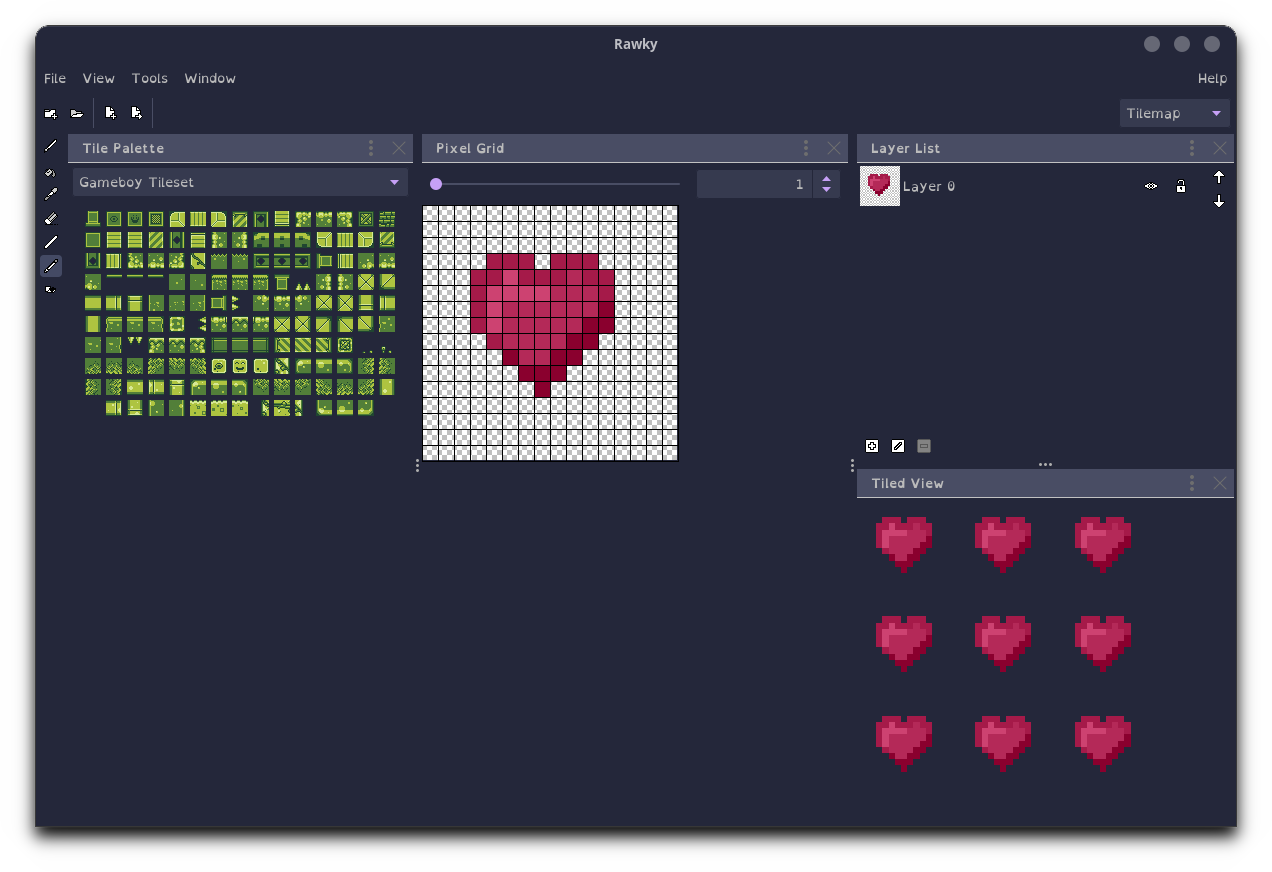
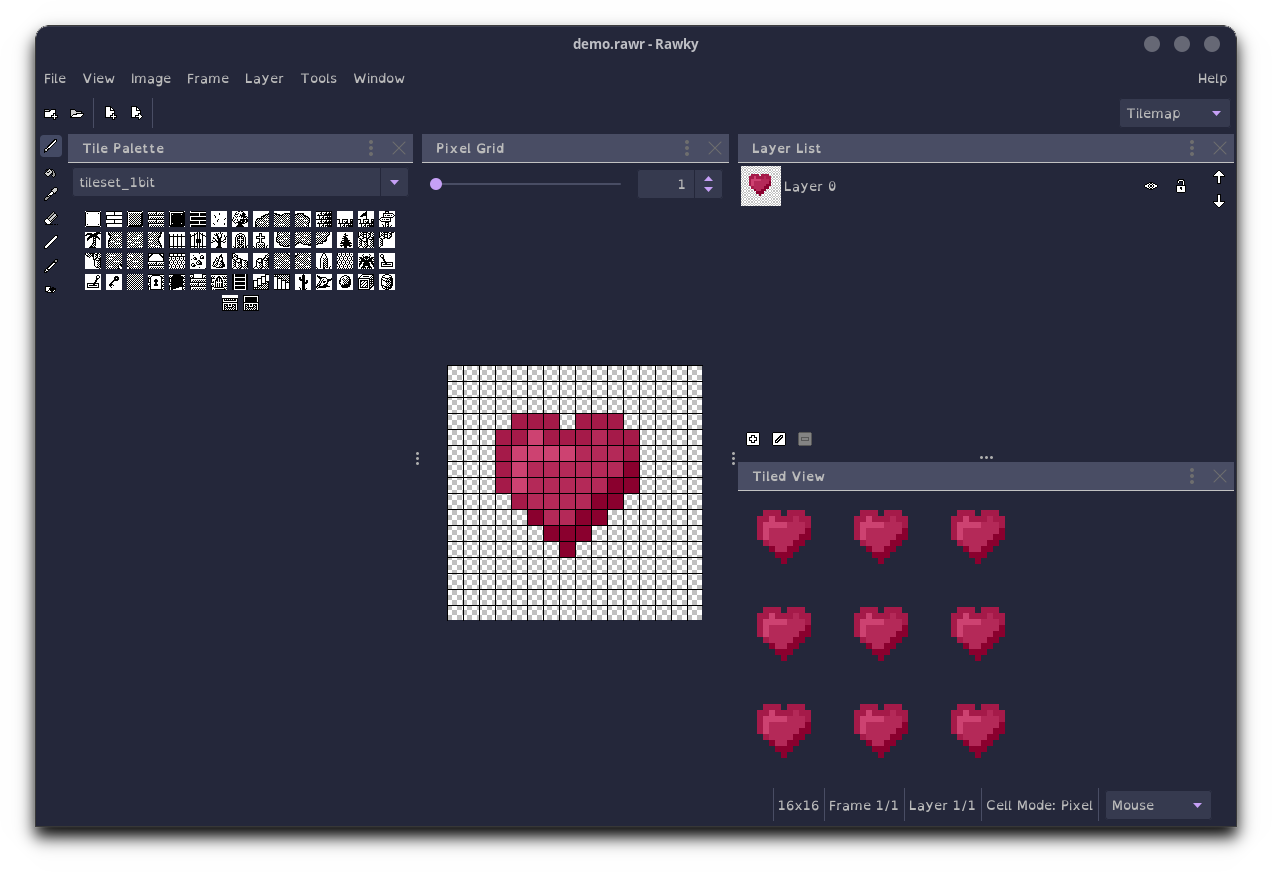
Centred the pixel grid

diff --git a/pixelgrid/src/main/kotlin/com/deflatedpickle/rawky/pixelgrid/PixelGridPanel.kt b/pixelgrid/src/main/kotlin/com/deflatedpickle/rawky/pixelgrid/PixelGridPanel.kt
@@ -6,6 +6,7 @@ import com.deflatedpickle.haruhi.api.plugin.Plugin
 import com.deflatedpickle.haruhi.api.redraw.RedrawActive
 import com.deflatedpickle.haruhi.api.registry.Registry
 import com.deflatedpickle.haruhi.component.PluginPanel
+import com.deflatedpickle.haruhi.event.EventCreateDocument
 import com.deflatedpickle.haruhi.event.EventImportDocument
 import com.deflatedpickle.haruhi.event.EventOpenDocument
 import com.deflatedpickle.haruhi.util.RegistryUtil
@@ -20,10 +21,13 @@ import com.deflatedpickle.rawky.event.EventUpdateCell
 import com.deflatedpickle.rawky.pixelgrid.api.LayerCategory
 import com.deflatedpickle.rawky.pixelgrid.api.PaintLayer
 import com.deflatedpickle.rawky.util.DnDUtil
+import com.deflatedpickle.undulation.constraints.StickCenter
 import java.awt.BorderLayout
 import java.awt.Component
+import java.awt.Dimension
 import java.awt.Graphics
 import java.awt.Graphics2D
+import java.awt.GridBagLayout
 import java.awt.RenderingHints
 import java.awt.datatransfer.DataFlavor
 import java.awt.dnd.DnDConstants
@@ -31,10 +35,13 @@ import java.awt.dnd.DropTarget
 import java.awt.dnd.DropTargetAdapter
 import java.awt.dnd.DropTargetDragEvent
 import java.awt.dnd.DropTargetDropEvent
+import java.awt.event.MouseAdapter
+import java.awt.event.MouseEvent
 import java.awt.image.BufferedImage
 import java.io.File
 import java.io.IOException
 import javax.swing.JPanel
+import javax.swing.JScrollPane
 import javax.swing.JToolBar
 import kotlin.reflect.KClass
 import kotlin.reflect.full.declaredMemberProperties
@@ -74,14 +81,29 @@ object PixelGridPanel : PluginPanel() {
             }
         }
     }
+
     val panel = object : JPanel() {
+        override fun getPreferredSize(): Dimension {
+            RawkyPlugin.document?.let { doc ->
+                return Dimension(
+                    doc.columns * Grid.pixel,
+                    doc.rows * Grid.pixel
+                )
+            }
+
+            return Dimension(0, 0)
+        }
+
         override fun paintComponent(g: Graphics) {
             super.paintComponent(g)
 
             RawkyPlugin.document?.let { doc ->
                 doc.children.getOrNull(doc.selectedIndex)?.let { frame ->
                     val g2d = g as Graphics2D
-                    g2d.setRenderingHint(RenderingHints.KEY_INTERPOLATION, RenderingHints.VALUE_INTERPOLATION_NEAREST_NEIGHBOR)
+                    g2d.setRenderingHint(
+                        RenderingHints.KEY_INTERPOLATION,
+                        RenderingHints.VALUE_INTERPOLATION_NEAREST_NEIGHBOR
+                    )
 
                     val bufferedImage =
                         BufferedImage(
@@ -92,7 +114,10 @@ object PixelGridPanel : PluginPanel() {
 
                     for (v in PaintLayer.registry.getAll().values.sortedBy { it.layer }) {
                         val temp = bufferedImage.createGraphics()
-                        temp.setRenderingHint(RenderingHints.KEY_INTERPOLATION, RenderingHints.VALUE_INTERPOLATION_NEAREST_NEIGHBOR)
+                        temp.setRenderingHint(
+                            RenderingHints.KEY_INTERPOLATION,
+                            RenderingHints.VALUE_INTERPOLATION_NEAREST_NEIGHBOR
+                        )
 
                         for ((i, layer) in frame.children.withIndex()) {
                             if (v.layer == LayerCategory.GRID && !layer.visible) continue
@@ -108,6 +133,21 @@ object PixelGridPanel : PluginPanel() {
             }
         }
     }
+
+    private val wrapper = object : JPanel() {
+            init {
+                layout = GridBagLayout()
+                add(panel, StickCenter)
+
+                EventCreateDocument.addListener {
+                    doLayout()
+                }
+
+                EventOpenDocument.addListener {
+                    doLayout()
+                }
+            }
+        }
 
     private val dropTargetAdapter = object : DropTargetAdapter() {
         override fun dragOver(dtde: DropTargetDragEvent) {
@@ -126,8 +166,9 @@ object PixelGridPanel : PluginPanel() {
                     dtde.acceptDrop(DnDConstants.ACTION_COPY)
 
                     if (DnDUtil.isDnDAnImage(dtde.transferable)) {
-                        val transferable = (dtde.transferable.getTransferData(DataFlavor.javaFileListFlavor) as List<File>)
-                            .first()
+                        val transferable =
+                            (dtde.transferable.getTransferData(DataFlavor.javaFileListFlavor) as List<File>)
+                                .first()
 
                         if (RawkyPlugin.document == null) {
                             for ((_, v) in Opener.registry) {
@@ -165,7 +206,7 @@ object PixelGridPanel : PluginPanel() {
         DropTarget(panel, DnDConstants.ACTION_COPY, dropTargetAdapter, true)
 
         add(quickBar, BorderLayout.NORTH)
-        add(panel, BorderLayout.CENTER)
+        add(JScrollPane(wrapper), BorderLayout.CENTER)
 
         EventUpdateCell.addListener { repaint() }
     }

diff --git a/pixelgrid/mode/mouse/src/main/kotlin/com/deflatedpickle/rawky/pixelgrid/mode/mouse/MousePlugin.kt b/pixelgrid/mode/mouse/src/main/kotlin/com/deflatedpickle/rawky/pixelgrid/mode/mouse/MousePlugin.kt
@@ -9,6 +9,7 @@ import com.deflatedpickle.haruhi.api.plugin.PluginType
 import com.deflatedpickle.rawky.RawkyPlugin
 import com.deflatedpickle.rawky.pixelgrid.PixelGridPanel
 import com.deflatedpickle.rawky.api.ControlMode
+import com.deflatedpickle.rawky.event.EventUpdateCell
 import java.awt.MouseInfo
 import java.awt.event.MouseAdapter
 import java.awt.event.MouseEvent
@@ -62,6 +63,7 @@ object MousePlugin : ControlMode() {
                         for (cell in grid.children) {
                             if (cell.polygon.contains(point)) {
                                 PixelGridPanel.selectedCells.add(cell)
+                                EventUpdateCell.trigger(cell)
                                 break
                             }
                         }
@@ -85,15 +87,15 @@ object MousePlugin : ControlMode() {
 
     override fun apply() {
         adapter.apply {
-            PixelGridPanel.addMouseListener(this)
-            PixelGridPanel.addMouseMotionListener(this)
+            PixelGridPanel.panel.addMouseListener(this)
+            PixelGridPanel.panel.addMouseMotionListener(this)
         }
     }
 
     override fun remove() {
         adapter.apply {
-            PixelGridPanel.removeMouseListener(this)
-            PixelGridPanel.removeMouseMotionListener(this)
+            PixelGridPanel.panel.removeMouseListener(this)
+            PixelGridPanel.panel.removeMouseMotionListener(this)
         }
     }
 

diff --git a/colourshades/src/main/kotlin/com/deflatedpickle/rawky/colourshades/ColourShadesPanel.kt b/colourshades/src/main/kotlin/com/deflatedpickle/rawky/colourshades/ColourShadesPanel.kt
@@ -14,10 +14,11 @@ import com.deflatedpickle.undulation.widget.ColourButton
 import org.jdesktop.swingx.JXPanel
 import uk.co.timwise.wraplayout.WrapLayout
 import java.awt.GridBagLayout
+import javax.swing.JPanel
 import javax.swing.JScrollPane
 
 object ColourShadesPanel : PluginPanel() {
-    private val colourPanel = JXPanel().apply { layout = WrapLayout() }
+    private val colourPanel = JPanel().apply { layout = WrapLayout() }
 
     init {
         layout = GridBagLayout()

diff --git a/README.md b/README.md
@@ -40,6 +40,11 @@
 	<img src="https://sloc.xyz/github/DeflatedPickle/Rawky/?category=lines">
 </p>
 
+<p align="center">
+    <img alt="Bytes" src="https://img.shields.io/github/languages/code-size/DeflatedPickle/Rawky">
+    <img alt="Size" src="https://img.shields.io/github/repo-size/DeflatedPickle/Rawky">
+</p>
+
 <h3 align="center">Download</h3>
 <p align="center">
 	<a href="https://github.com/DeflatedPickle/Rawky/releases/tag/dist-latest"><img alt="Latest" src="https://img.shields.io/github/downloads/DeflatedPickle/Rawky/dist-latest/total.svg"></a>
